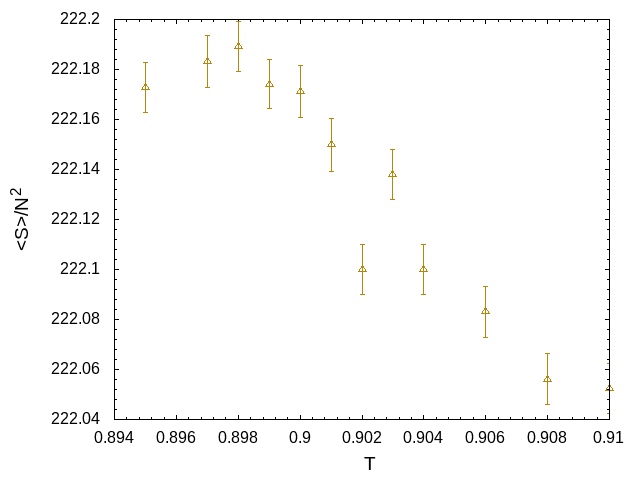
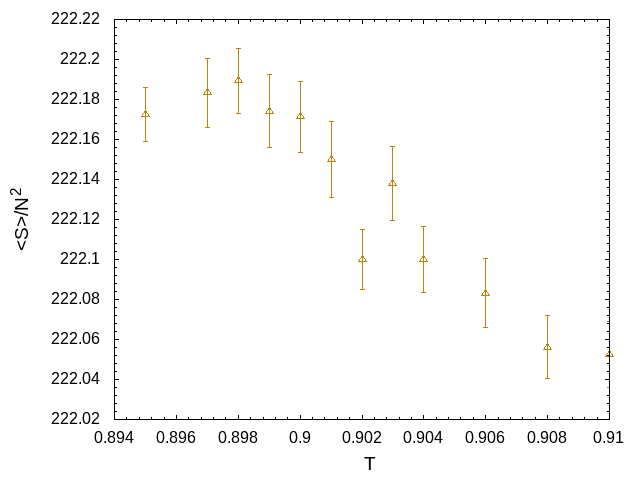
Updated some results with block size 50

diff --git a/MatrixModels/BMN_Bosonic_Gauged/Nc32_24_mu1.0/Obs/index.html b/MatrixModels/BMN_Bosonic_Gauged/Nc32_24_mu1.0/Obs/index.html
@@ -43,9 +43,10 @@
       </tr>
     </table>
 <table>
-      <tr><th></th><th>Separatrix </th><th> </th><th> </th></tr>
+       <tr><th>Susceptibility(Energy)</th><th>Separatrix </th><th> </th><th> </th></tr>
       <tr>
         <td style="width:440px; height:300px;">
+        <img src="Results/susc_energy.png" width=400 height=300 />
         </td>
         <td style="width:440px; height:300px;">
         <img src="Results/sep.png" width=400 height=300 />

diff --git a/MatrixModels/BMN_Bosonic_Gauged/index.html b/MatrixModels/BMN_Bosonic_Gauged/index.html
@@ -43,7 +43,7 @@
 <a href="Nc16_24_mu1.0/index.html">Nc16_24</a>
 </th>
 <th>
-<a href="Nc32_24_mu1.0/index.html">Nc32_24</a>
+<a href="Nc32_24_mu1.0/index.html">Nc32_24 *</a>
 </th>
 </tr>
 
@@ -59,7 +59,7 @@
 <a href="Nc16_24_mu2/index.html">Nc16_24</a>
 </th>
 <th>
-<a href="Nc32_24_mu2.0/index.html">Nc32_24</a>
+<a href="Nc32_24_mu2.0/index.html">Nc32_24 *</a>
 </th>
 </tr>
 <tr>
